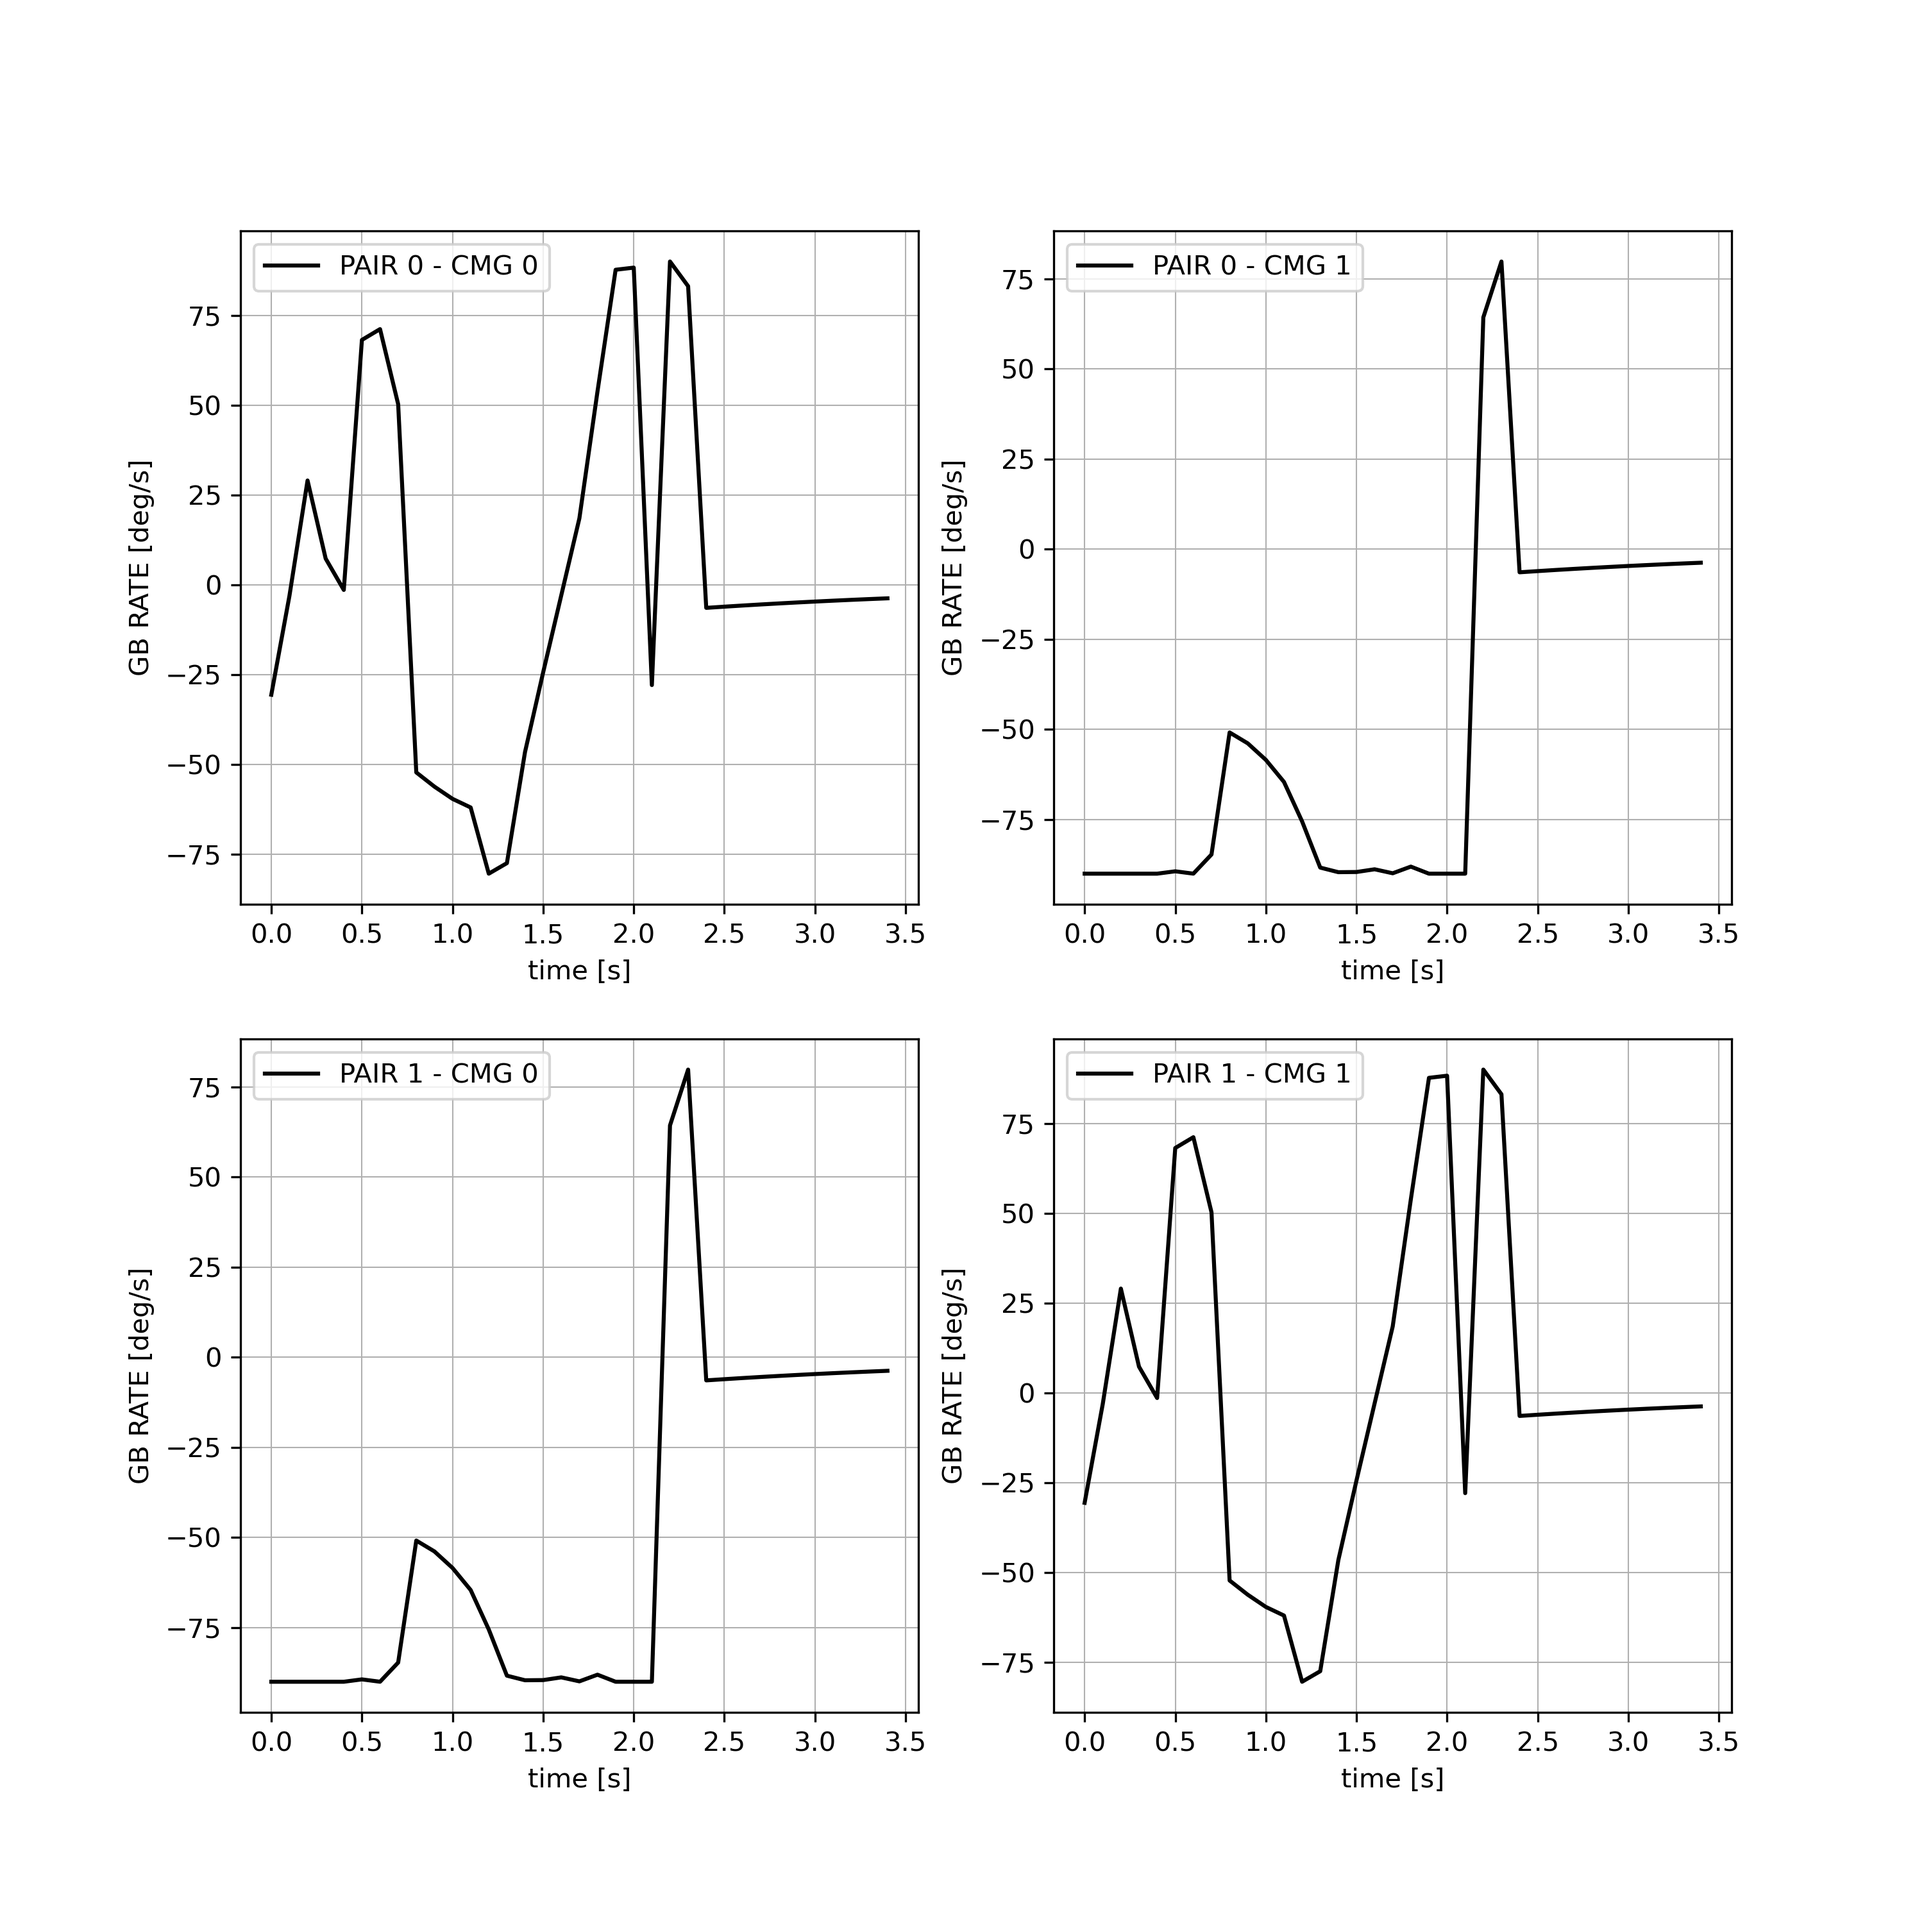
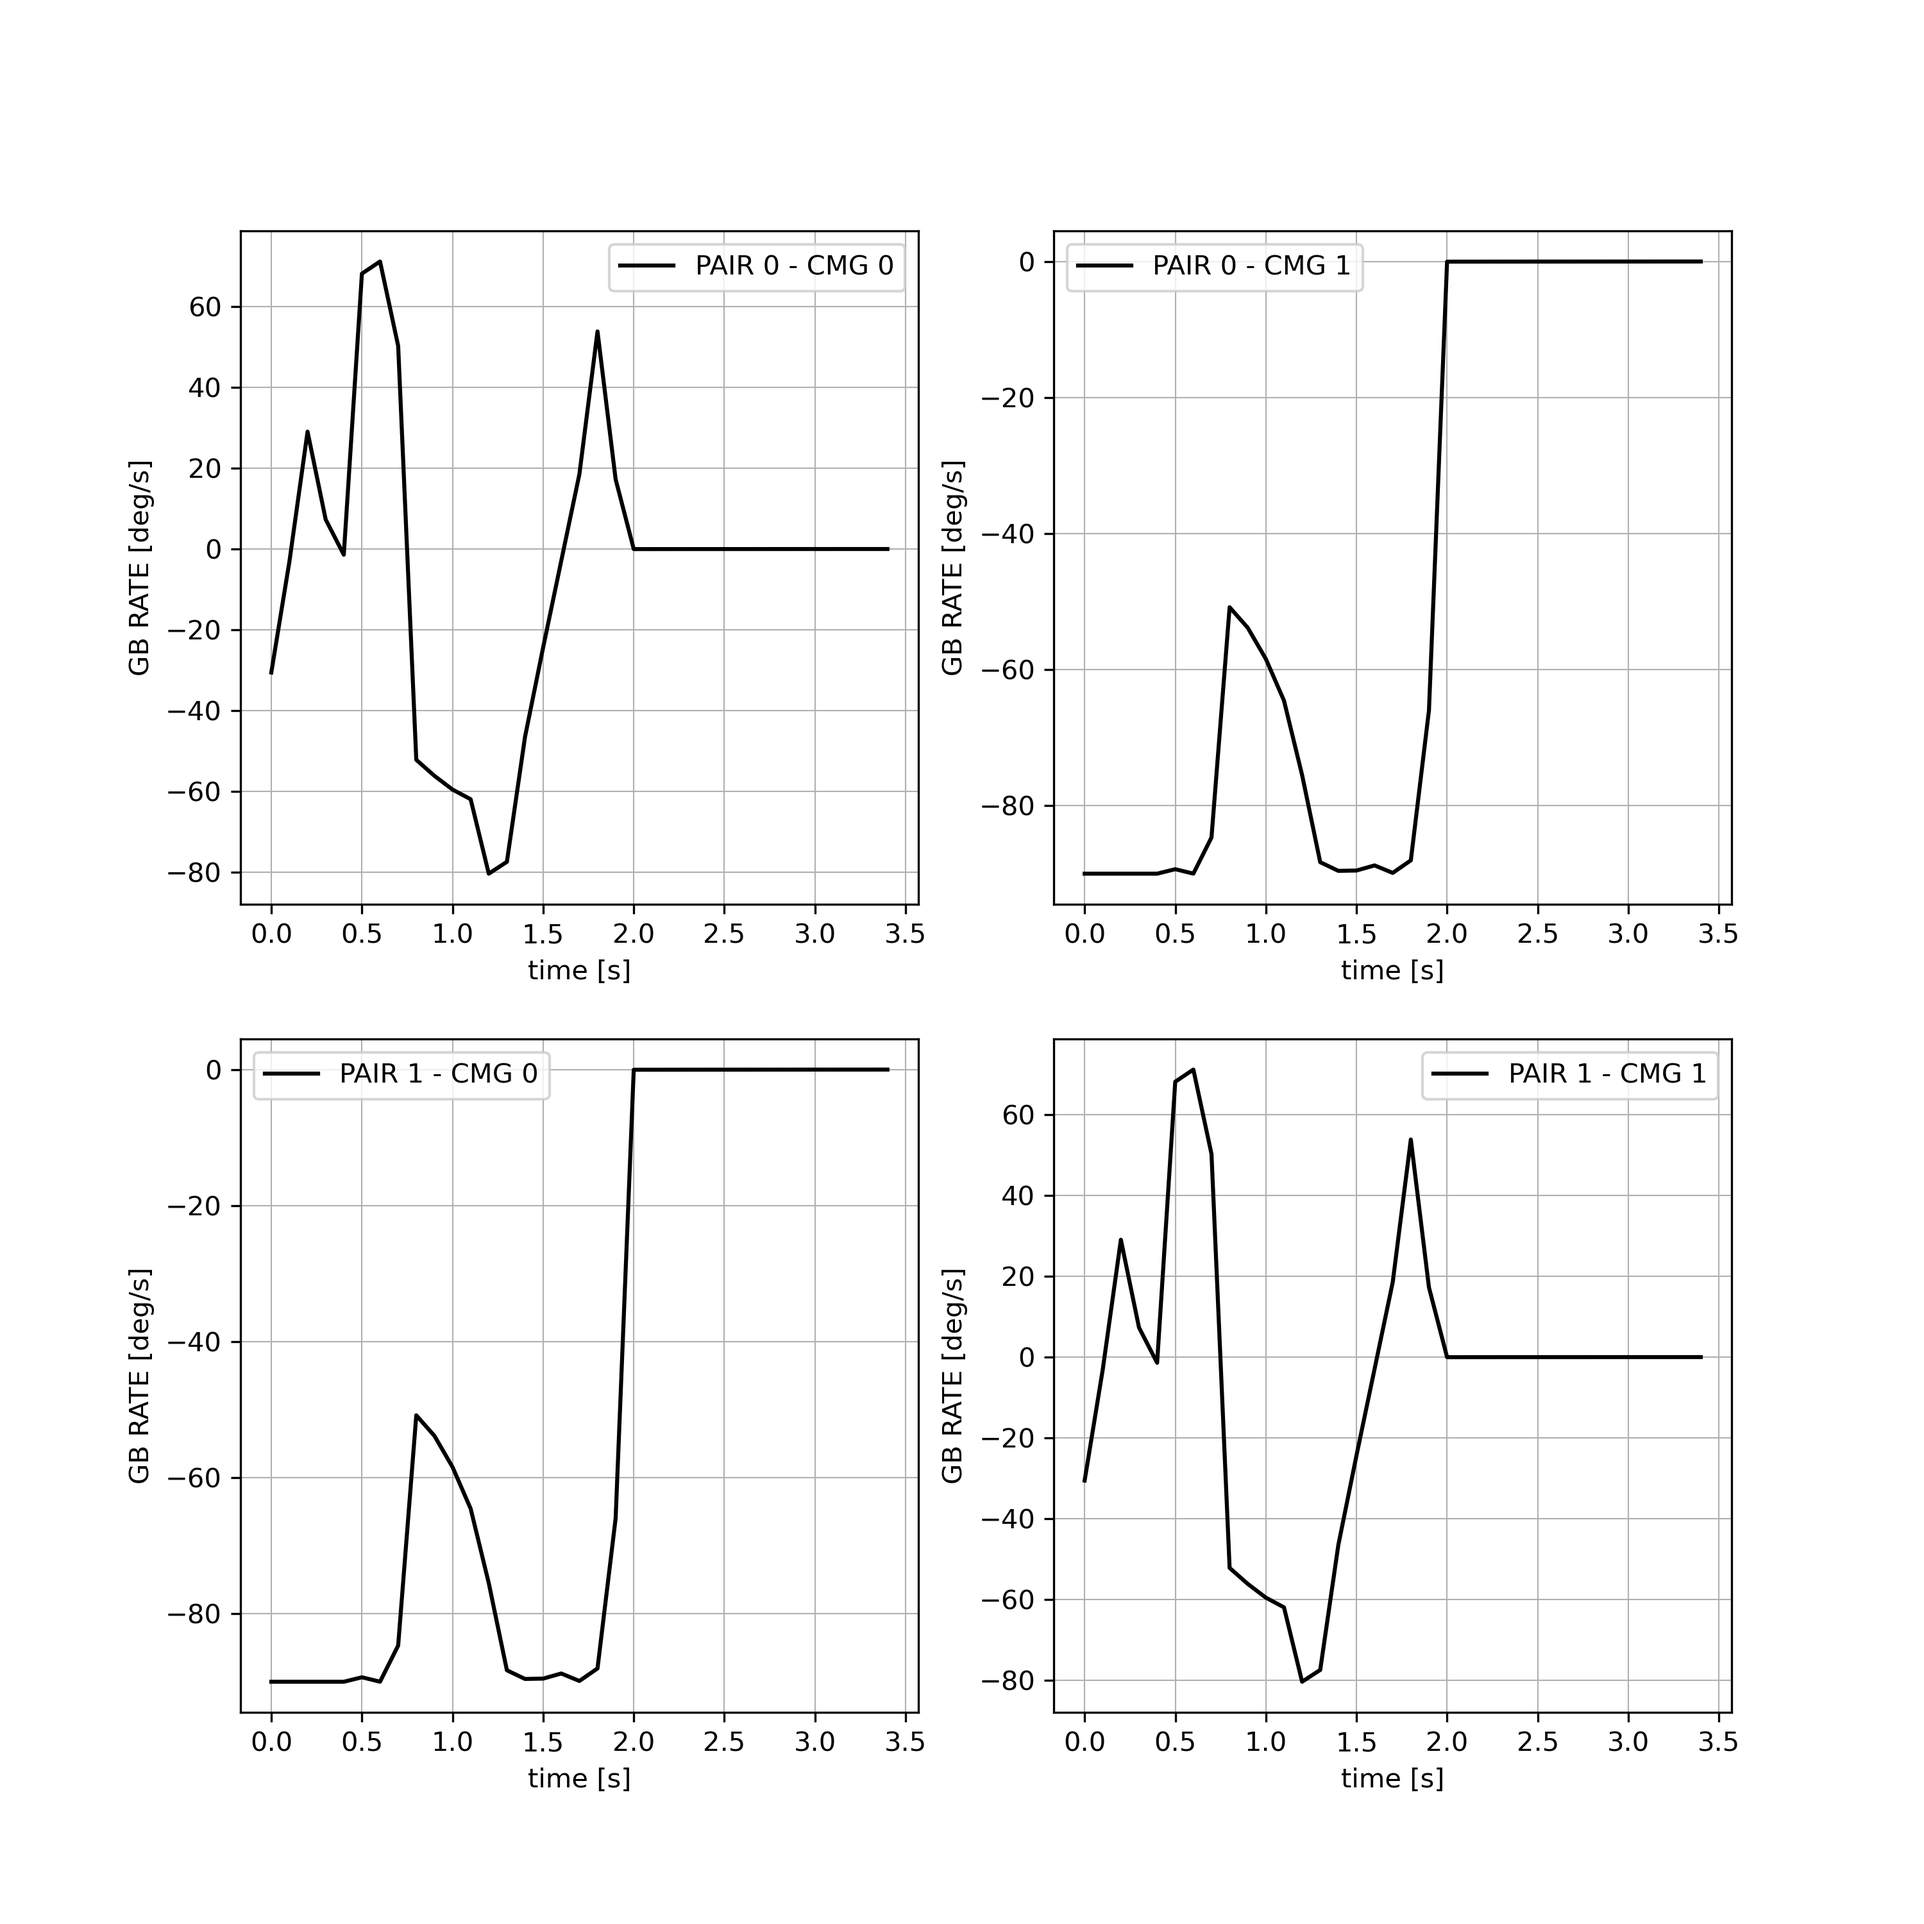
added threshold to external singularity, working better than my brain

diff --git a/RDCP.py b/RDCP.py
@@ -188,6 +188,7 @@ class Pair():
 
     fact_deg2range = 1/180 # factor to transform angle from [0, 360] -> [0, 2]
     fact_rad2range = 1/np.pi # factor to transform angle from [0, 2*pi] -> [0, 2]
+    ext_th = 0.95
 
     def __init__(self, theta_0, theta_1):
         '''Set initial angle [degrees]'''
@@ -227,15 +228,15 @@ class Pair():
         H_req_norm = np.linalg.norm(H_req)
         # external singularity (delta = 0)
         
-        if H_req_norm > self.h:
-            H_req_norm = self.h
+        if H_req_norm > Pair.ext_th*self.h:
+            H_req_norm = Pair.ext_th*self.h
             # flywheel Momentum parallel same sign
-            delta_req = 0
+            delta_req = Pair.fact_rad2range * acos( Pair.ext_th)
         else:
-            delta_req = 1/np.pi * acos( H_req_norm / self.h) # range [0 , 1]
+            delta_req = Pair.fact_rad2range * acos( H_req_norm / self.h) # range [0 , 1]
 
         # arctan of Imag [1] (U | V) and Real [0] (Z)
-        sigma_req = 1/np.pi * atan2(H_req[1], H_req[0]) # range (-1, 1]
+        sigma_req = Pair.fact_rad2range * atan2(H_req[1], H_req[0]) # range (-1, 1]
         
         Sigma_req = np.array((sigma_req, sigma_req+1))
         Delta_req = np.array(((delta_req, -delta_req), (delta_req+1, -delta_req+1)))
